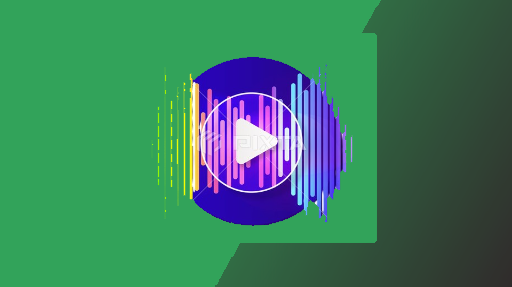
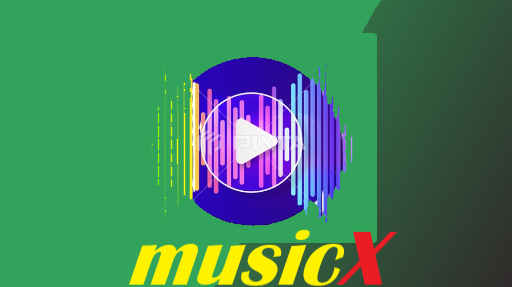
Some Mods2

Changed region(s): [[0.25, 0.8084, 0.7812, 1.0]]

diff --git a/src/components/AuthForm/AuthForm.jsx b/src/components/AuthForm/AuthForm.jsx
@@ -1,9 +1,11 @@
 import React, { useState } from 'react';
 import { useNavigate } from 'react-router-dom';
 import styled from 'styled-components';
+import logo from './logo.png'; // Import your logo image
 
 const Container = styled.div`
   display: flex;
+  flex-direction: column;
   justify-content: center;
   align-items: center;
   height: 100vh;
@@ -12,13 +14,32 @@ const Container = styled.div`
   background-position: center;
 `;
 
+const WelcomeContainer = styled.div`
+  display: flex;
+  flex-direction: column;
+  align-items: center;
+  margin-bottom: 2rem;
+`;
+
+const WelcomeText = styled.h1`
+  text-align: center;
+  color: yellow;
+  margin-bottom: 1rem;
+`;
+
+const Logo = styled.img`
+  width: 80px;
+  height: 80px;
+  margin-bottom: 1rem;
+`;
+
 const FormContainer = styled.div`
-  background-color: rgba(255, 255, 255, 0.9); /* Add opacity to make the form container slightly transparent */
+  background-color: rgba(255, 255, 255, 0.9);
   padding: 2rem;
   border-radius: 8px;
   box-shadow: 0 4px 6px rgba(0, 0, 0, 0.1);
   width: 400px;
-  background-image: url('https://e1.pxfuel.com/desktop-wallpaper/581/154/desktop-wallpaper-backgrounds-for-login-page-login-page.jpg')
+  background-image: url('https://e1.pxfuel.com/desktop-wallpaper/581/154/desktop-wallpaper-backgrounds-for-login-page-login-page.jpg');
 `;
 
 const Title = styled.h1`
@@ -105,6 +126,10 @@ const AuthForm = ({ onLogin }) => {
 
   return (
     <Container>
+      <WelcomeContainer>
+        <Logo src={logo} alt="Music App Logo" />
+        <WelcomeText> musicX app!</WelcomeText>
+      </WelcomeContainer>
       <FormContainer>
         <Title>{isSignUp ? 'Sign Up for a New Account' : 'Sign In to Your Account'}</Title>
         <Form onSubmit={handleSubmit}>

diff --git a/src/components/Home/Home.jsx b/src/components/Home/Home.jsx
@@ -12,8 +12,8 @@ const Home = () => {
     <div style={{ display: 'flex', flexDirection: 'column', justifyContent: 'flex-end', position: 'relative' }}>
       <img src={back} alt='logo' style={{ maxWidth: '100%', height: '85vh', backgroundBlendMode: 'multiply' }} />
       <div className='mycls' style={{ position: 'absolute', top: '50%', left: '50%', transform: 'translate(-50%, -50%)', textAlign: 'center', color: 'white' }}>
-        <h1 style={{ fontSize: '3em', fontWeight: 'bold', marginBottom: '1rem', marginLeft: '10rem' }}>Welcome to Musify Player</h1>
-        <h2 style={{ fontSize: '3em', fontWeight: 'bold', marginBottom: '1rem', marginLeft: '9rem' }}>Top trending Artists</h2>
+        <h1 style={{ fontSize: '3em', fontWeight: 'bold', marginBottom: '1rem', marginLeft: '10rem' }}>Welcome to musicX player</h1>
+        <h3 style={{ fontSize: '3em', fontWeight: 'bold', marginBottom: '1rem', marginLeft: '9rem' }}>Top trending Artists</h3>
         <div style={{ display: 'flex', justifyContent: 'flex-end', flexWrap: 'wrap' }}>
           {artists.map((artist, index) => (
             <div

diff --git a/src/components/Search/Search.jsx b/src/components/Search/Search.jsx
@@ -2,18 +2,19 @@ import React, { useState } from 'react';
 import styled from 'styled-components';
 
 const SearchBarContainer = styled.div`
+  background-image: url('https://wallpapers.com/images/hd/green-and-black-background-6o7fi4exq0rbsvtw.jpg');
   display: flex;
   flex-direction: column;
   align-items: center;
-  margin-bottom: 20px;
-  height: 83vh;
-  background-image: url('https://wallpapers.com/images/hd/green-and-black-background-6o7fi4exq0rbsvtw.jpg');
+  margin-bottom: 0px;
+  height: 85vh;
+  
 
 `;
 
 const SearchInput = styled.input`
   width: 400px;
-  height: 40px;
+  height: 39px;
   padding: 10px;
   font-size: 16px;
   border: none;

diff --git a/src/components/Library/Playlists.jsx b/src/components/Library/Playlists.jsx
@@ -16,6 +16,8 @@ const Container = styled.div`
   align-items: center;
   padding: 20px;
   height: 80vh;
+  background-image: url('https://wallpapers.com/images/hd/green-and-black-background-6o7fi4exq0rbsvtw.jpg');
+  color: white;
 `;
 
 const Button = styled.button`
